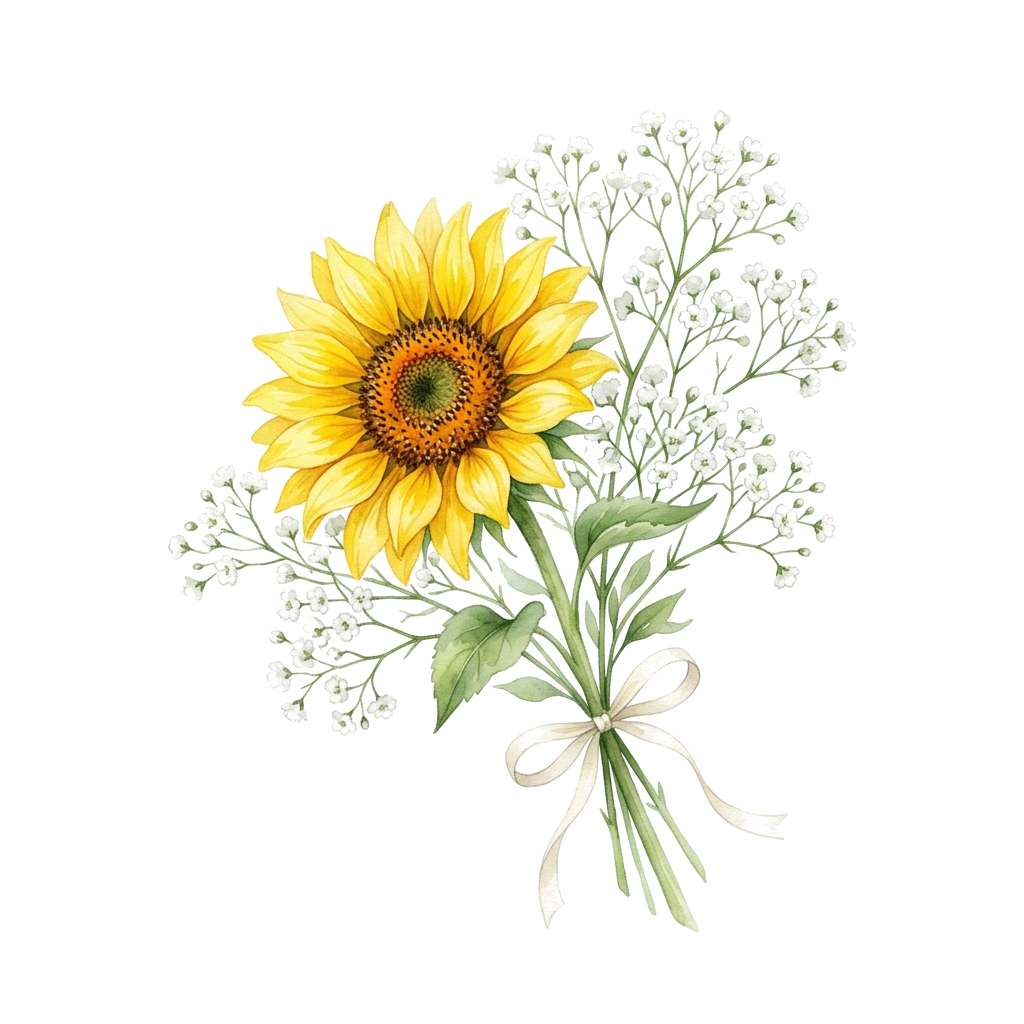
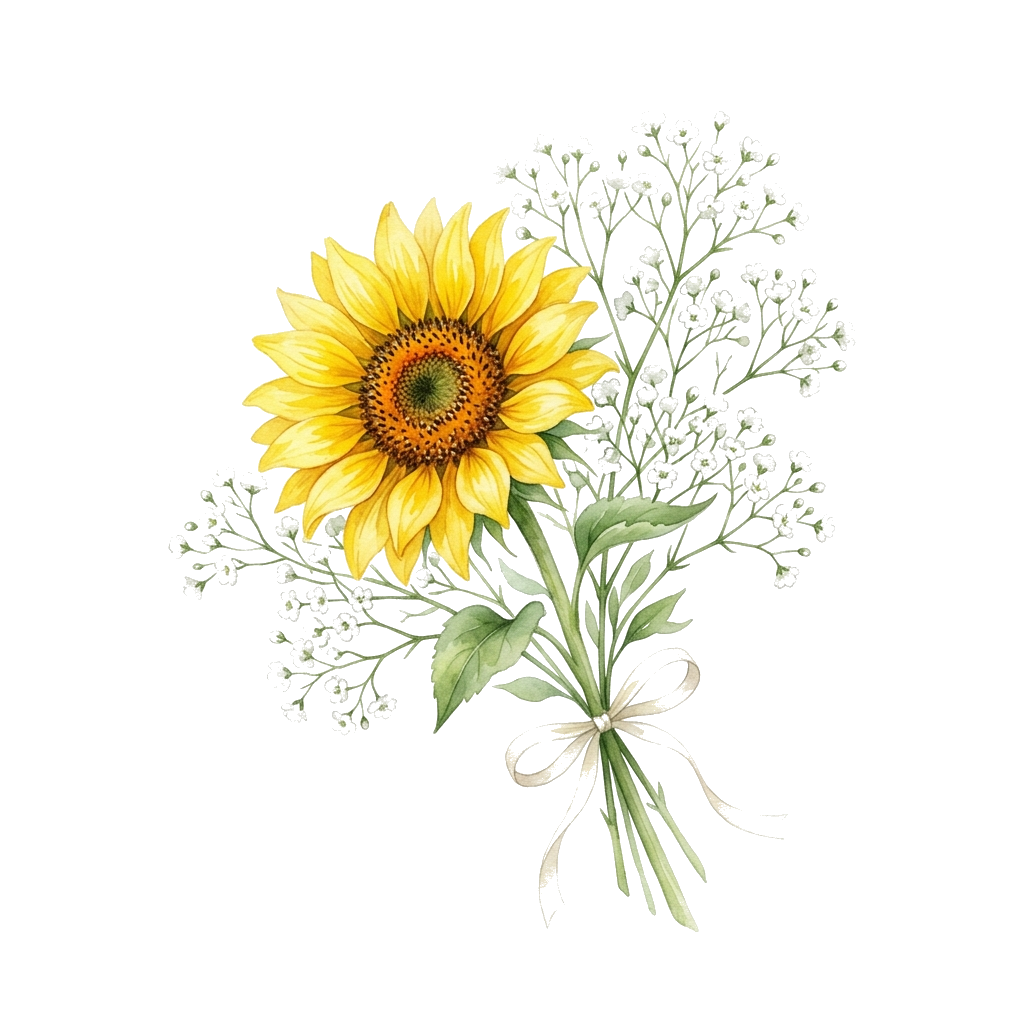
fix: resolve safari transparent png bug on timeline and future floral images

diff --git a/src/components/FutureSection.tsx b/src/components/FutureSection.tsx
@@ -30,8 +30,8 @@ export default function FutureSection({ position, memories, onClickItem }: Futur
       <div className="absolute inset-0 bg-white/80 backdrop-blur-md shadow-[0_25px_50px_-12px_rgba(0,0,0,0.25)] rounded-[40px] border border-white/50" />
       
       {/* Floral Accents outside the backdrop-blur element */}
-      <img src="/floral-future.png" alt="floral accent" className="absolute -top-12 -left-12 w-40 h-40 object-contain opacity-90 pointer-events-none z-10 -scale-x-100" />
-      <img src="/floral-future.png" alt="floral accent" className="absolute -bottom-12 -right-12 w-40 h-40 object-contain opacity-90 pointer-events-none rotate-180 z-10 -scale-x-100" />
+      <img src="/floral-future.png" alt="floral accent" className="absolute -top-12 -left-12 w-40 h-40 object-contain opacity-90 pointer-events-none z-10 -scale-x-100" style={{ transform: "translateZ(0)", WebkitTransform: "translateZ(0)" }} />
+      <img src="/floral-future.png" alt="floral accent" className="absolute -bottom-12 -right-12 w-40 h-40 object-contain opacity-90 pointer-events-none rotate-180 z-10 -scale-x-100" style={{ transform: "translateZ(0)", WebkitTransform: "translateZ(0)" }} />
 
       <div className="relative flex flex-col items-center justify-center p-16 z-20 w-full h-full">
         <h2 className="font-serif text-5xl text-ink mb-12 text-center text-shadow-soft">Our Future Vision</h2>

diff --git a/src/components/TimelineSection.tsx b/src/components/TimelineSection.tsx
@@ -29,8 +29,8 @@ export default function TimelineSection({ position, memories, onClickItem }: Tim
       <div className="absolute inset-0 bg-white/80 backdrop-blur-md shadow-[0_25px_50px_-12px_rgba(0,0,0,0.25)] rounded-[40px] border border-white/50" />
       
       {/* Floral Accents outside the backdrop-blur element */}
-      <img src="/floral-timeline.png" alt="floral accent" className="absolute -top-12 -right-12 w-40 h-40 object-contain opacity-90 pointer-events-none z-10" />
-      <img src="/floral-timeline.png" alt="floral accent" className="absolute -bottom-12 -left-12 w-40 h-40 object-contain opacity-90 pointer-events-none rotate-180 z-10" />
+      <img src="/floral-timeline.png" alt="floral accent" className="absolute -top-12 -right-12 w-40 h-40 object-contain opacity-90 pointer-events-none z-10" style={{ transform: "translateZ(0)", WebkitTransform: "translateZ(0)" }} />
+      <img src="/floral-timeline.png" alt="floral accent" className="absolute -bottom-12 -left-12 w-40 h-40 object-contain opacity-90 pointer-events-none rotate-180 z-10" style={{ transform: "translateZ(0)", WebkitTransform: "translateZ(0)" }} />
 
       <div className="relative flex flex-col items-center p-12 z-20 w-full h-full">
         <h2 className="font-serif text-4xl text-ink mb-16 tracking-widest uppercase">Our Timeline</h2>